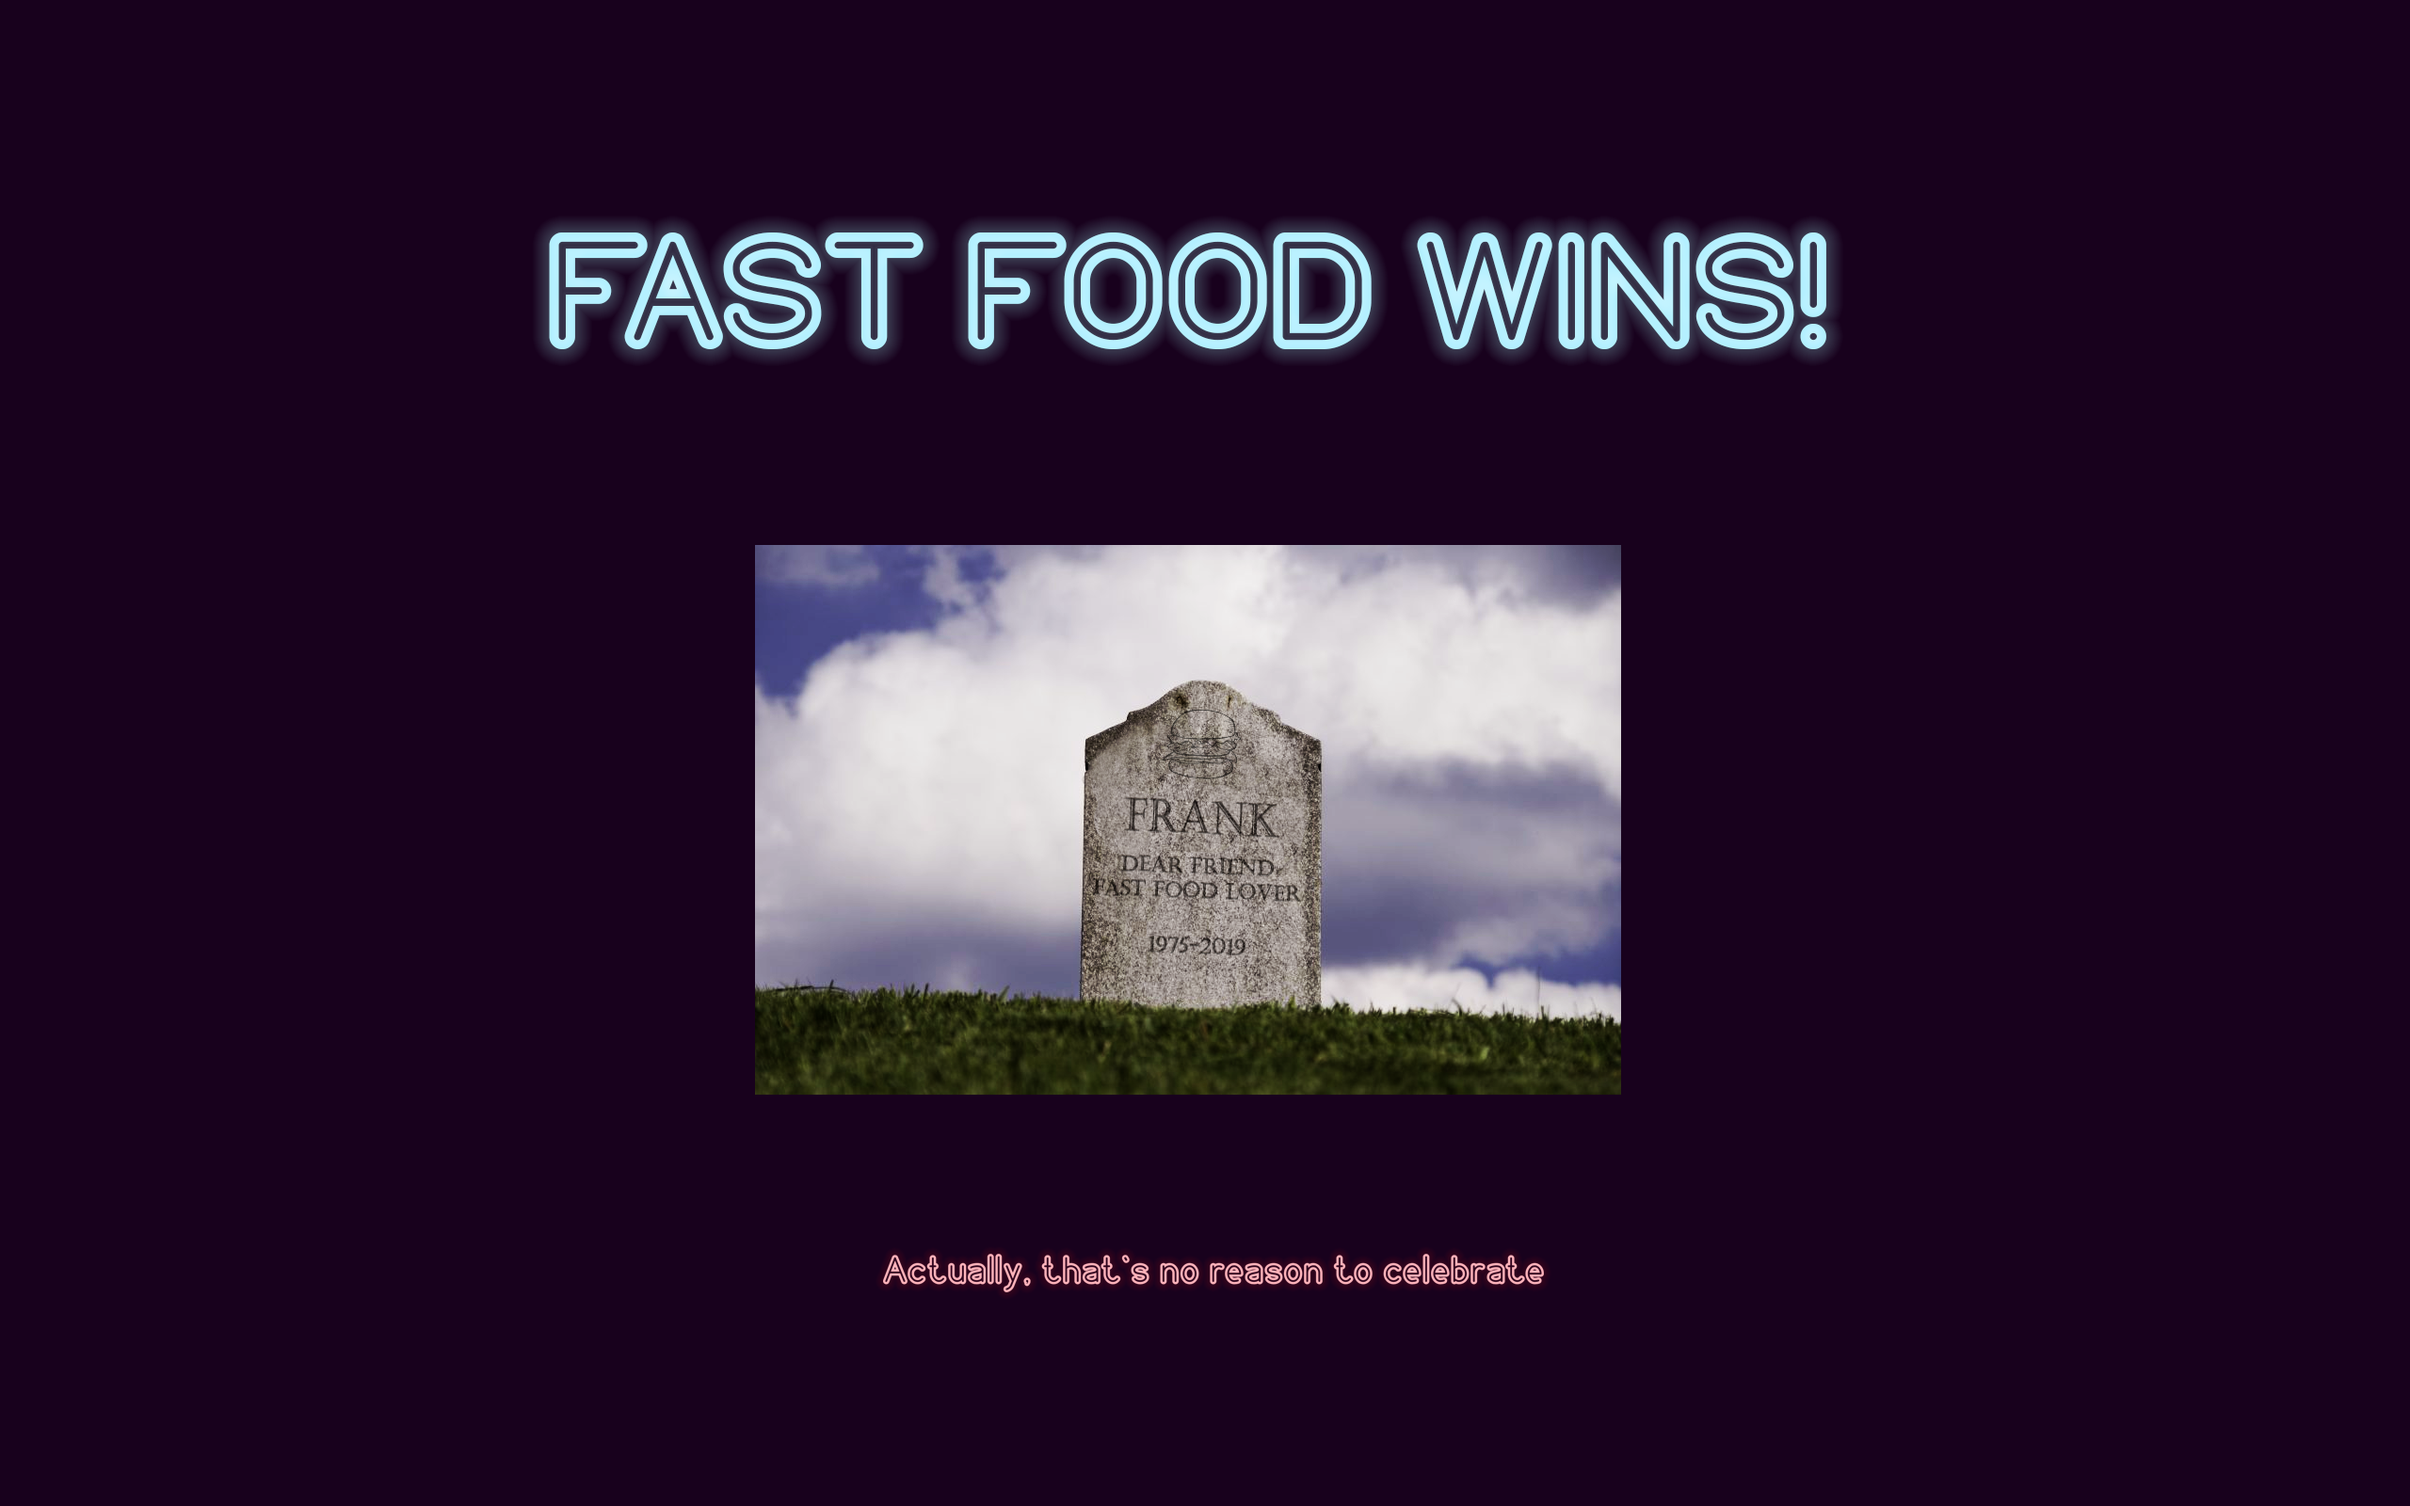
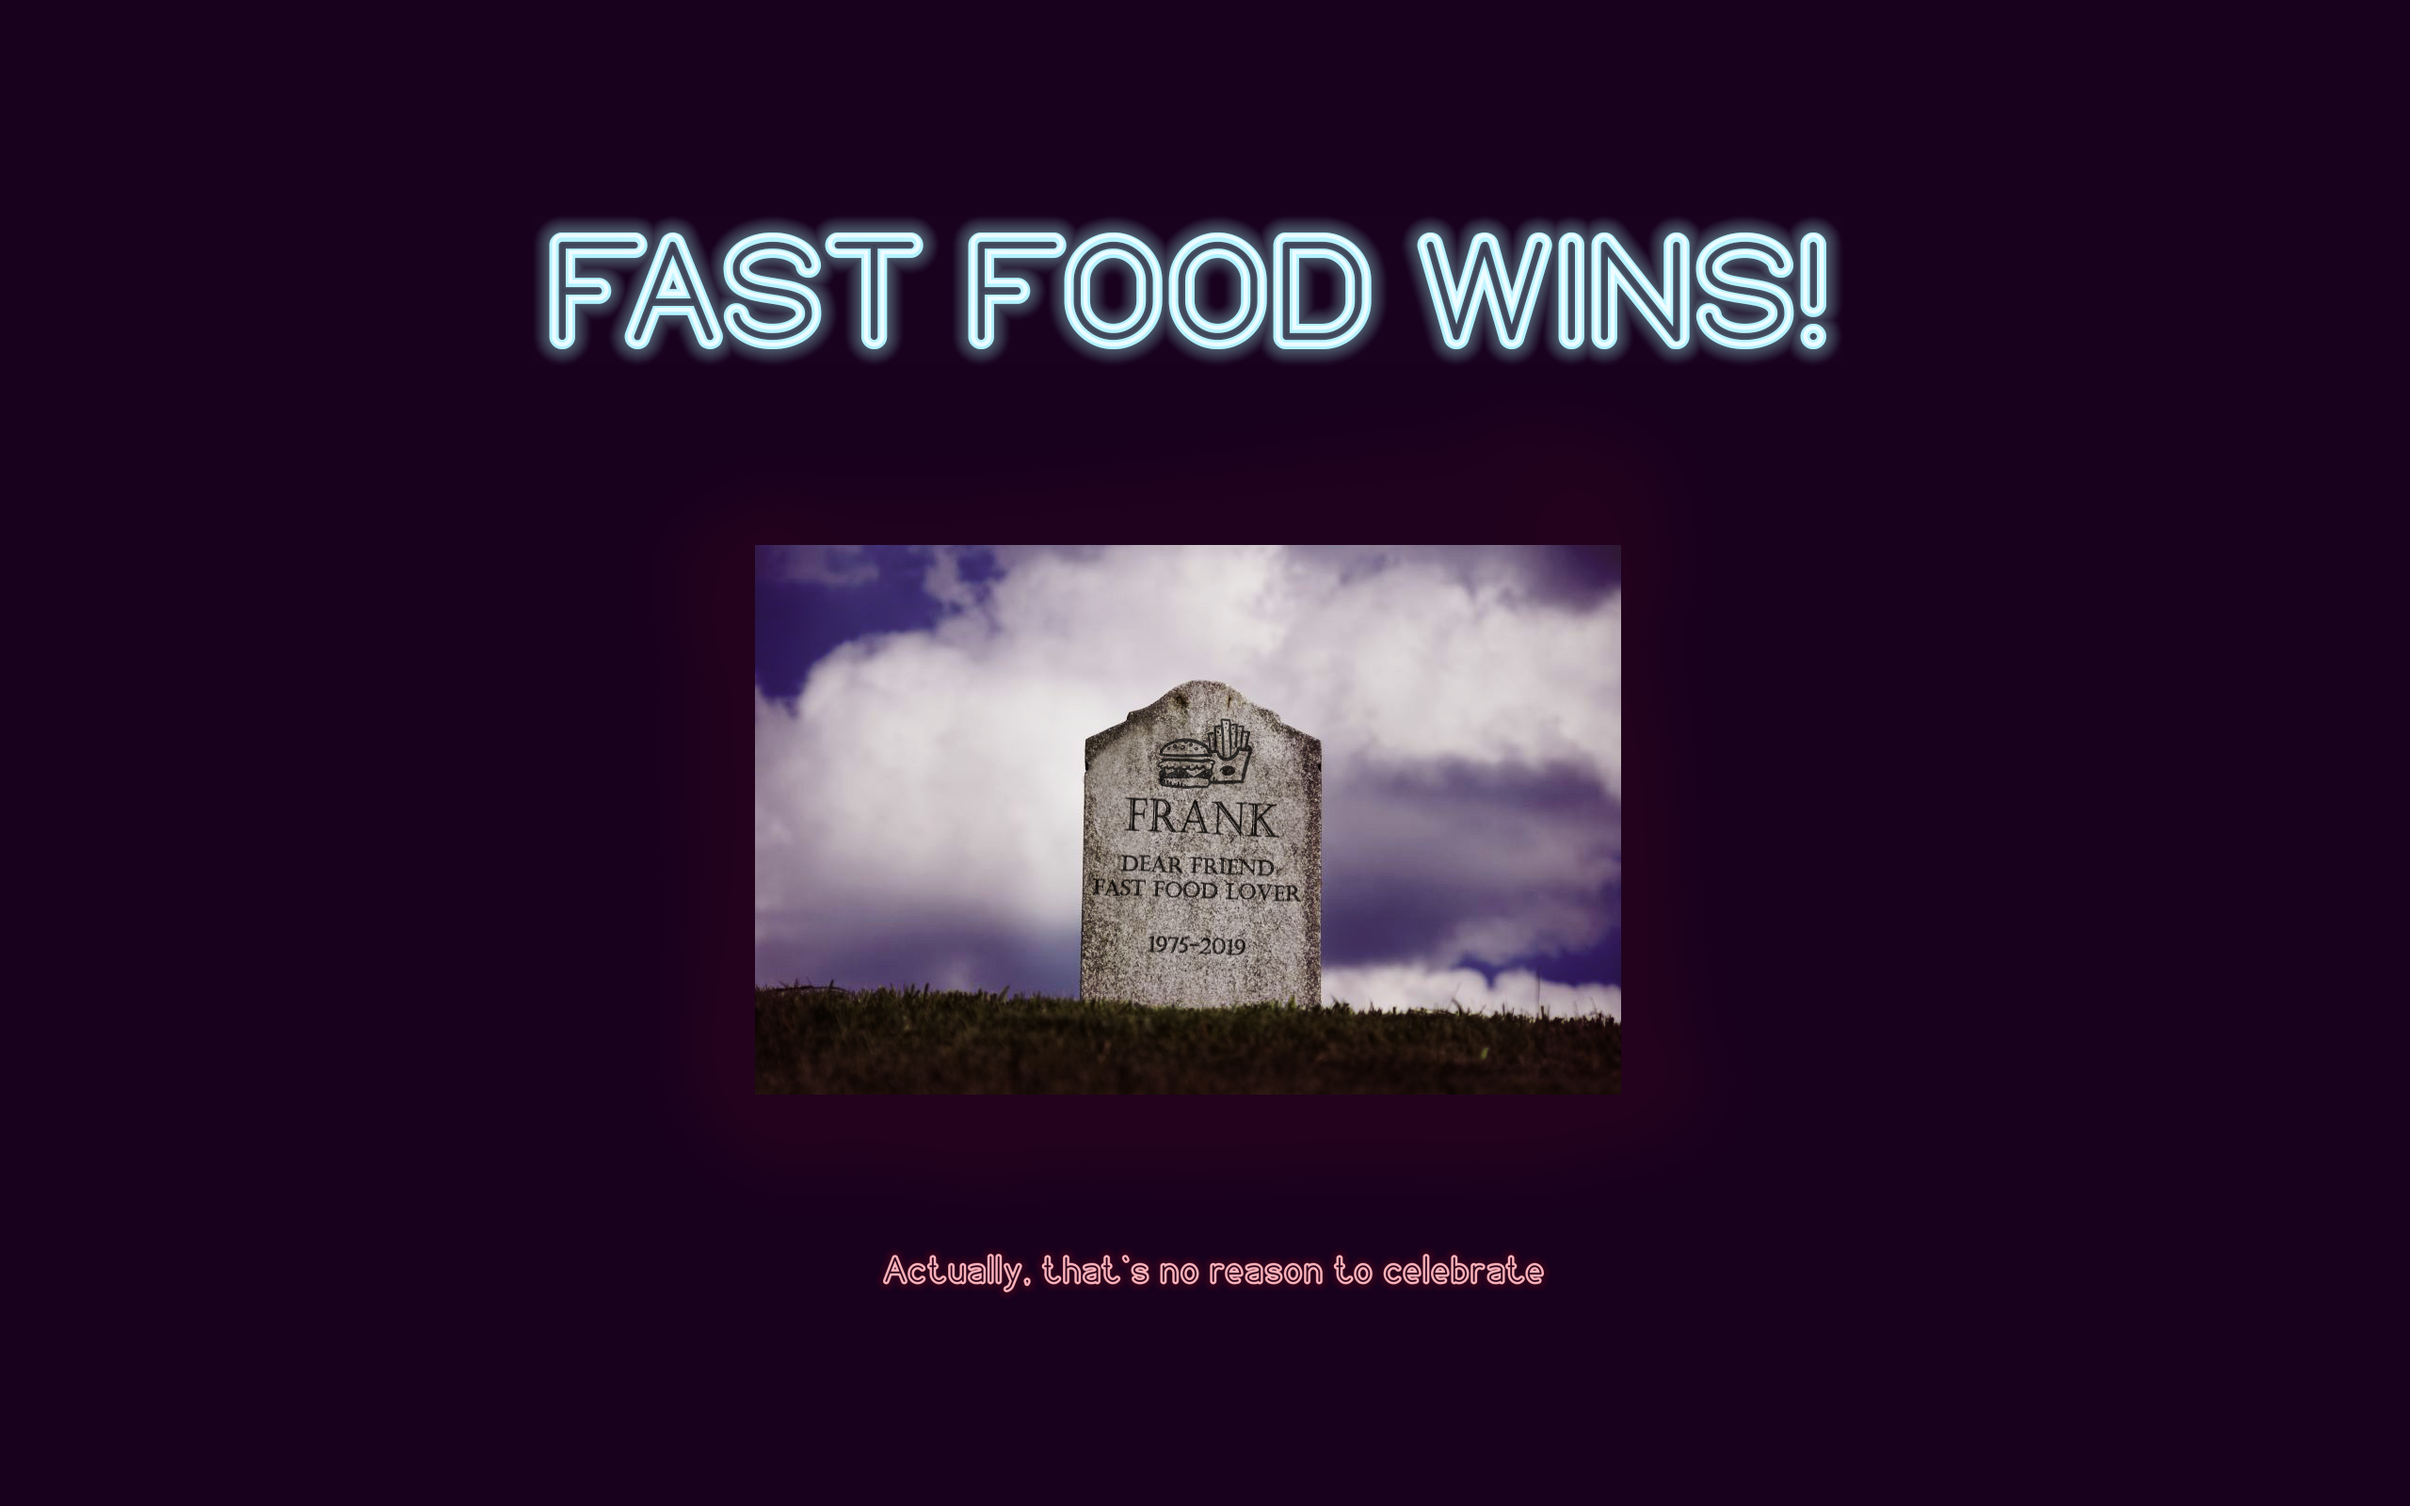
final updates

Changed region(s): [[0.3125, 0.3438, 0.6875, 0.75], [0.2188, 0.125, 0.7812, 0.25]]

diff --git a/index.html b/index.html
@@ -7,7 +7,6 @@
     <meta http-equiv="X-UA-Compatible" content="ie=edge">
     <title>burguerKills</title>
     <link rel="stylesheet" href="css/style.css">
-    <!-- <script src="js/sound.js"></script> -->
     <script src="js/score.js"></script>
     <script src="js/prizes.js"></script>
     <script src="js/obstacles.js"></script>

diff --git a/css/style.css b/css/style.css
@@ -98,7 +98,7 @@ button:hover {
   font-size: 100%;
   font: inherit;
   align-content: center;
-  background-image: url('../img/gameover.png');
+  background-image: url('../img/Game over.png');
   background-size: auto 100%;
   background-repeat: no-repeat;
   background-position: center;

diff --git a/js/background.js b/js/background.js
@@ -5,7 +5,7 @@ class Background {
         this.height = height;
 
         this.image = new Image();
-        this.image.src = './img/finalBack.png';
+        this.image.src = './img/finalBack2x.png';
 
         this.posX = 0;
         this.posY = 0;
